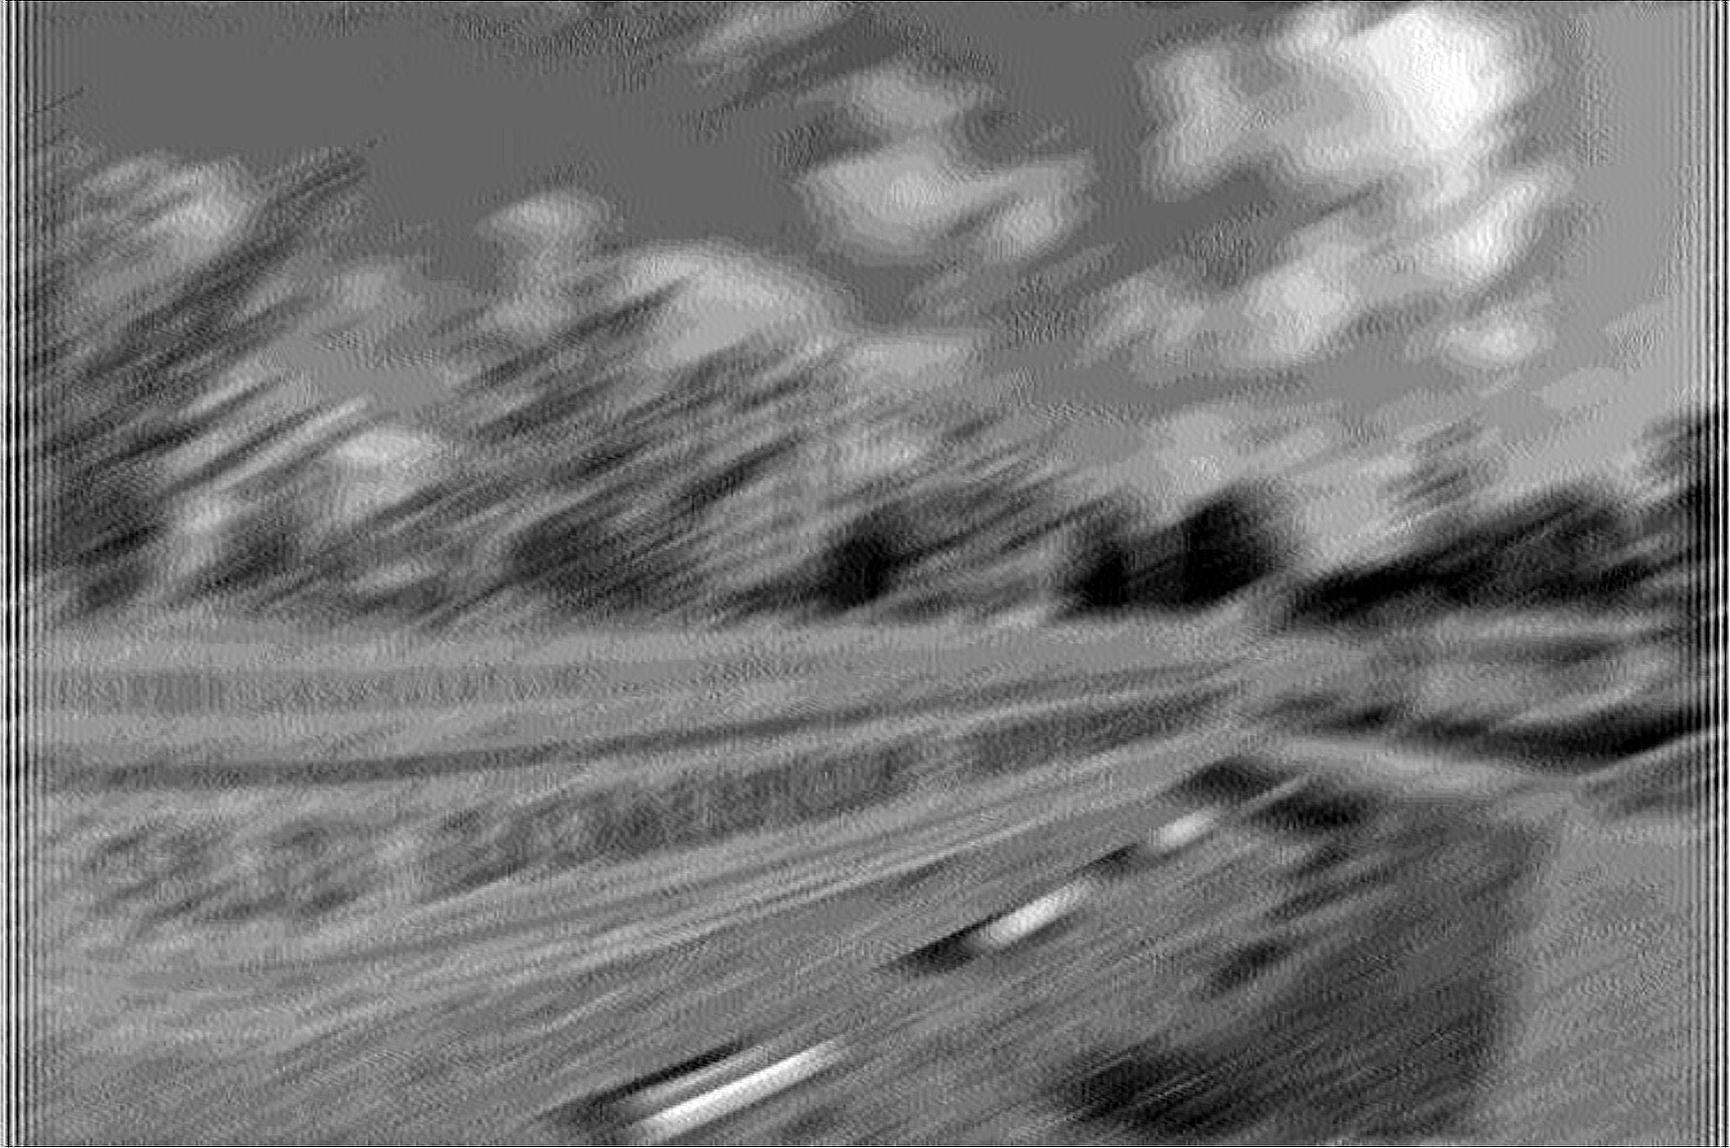
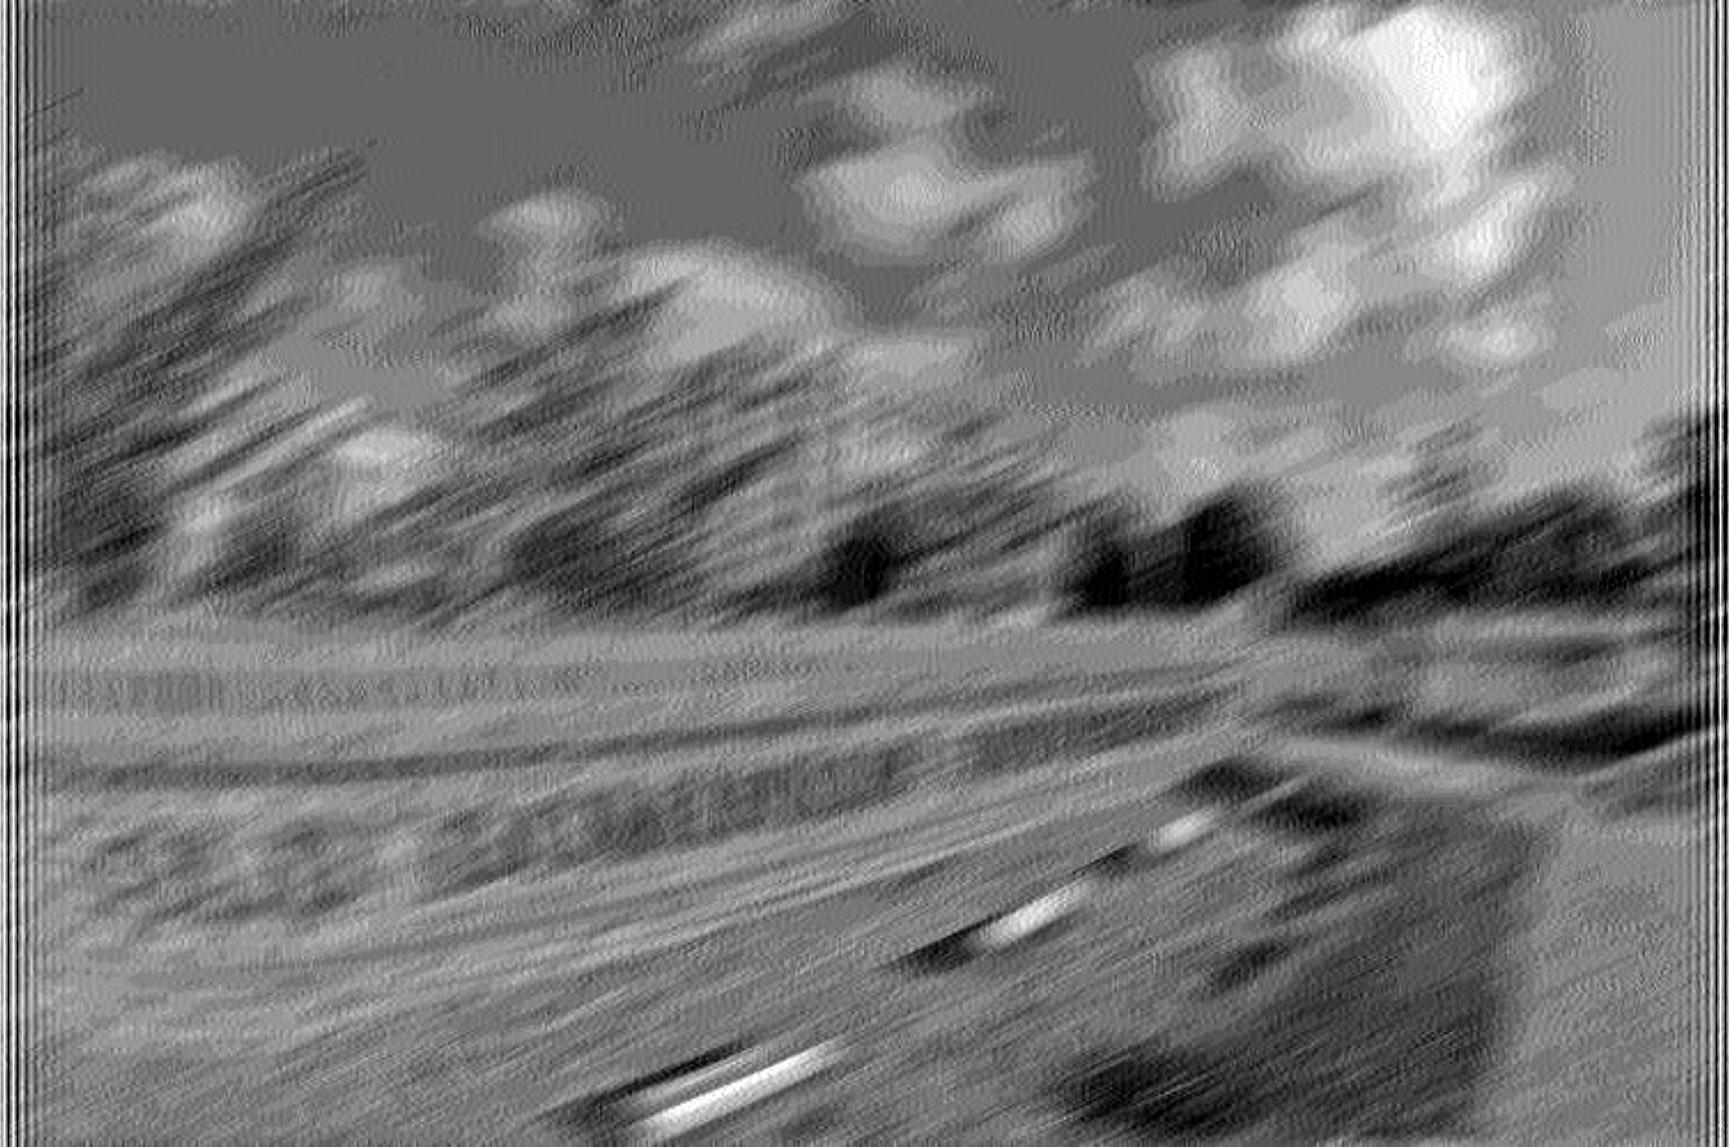
added weiner

Changed region(s): [[0.4682, 0.9756, 0.4994, 1.0], [0.0, 0.9756, 0.0312, 1.0]]

diff --git a/image_restoration/test_examples.m b/image_restoration/test_examples.m
@@ -1,37 +1,40 @@
-fs = 0.08;   %FOR RED CHANNEL
-W = 256;
-H = 128; 
-
-img1 = zeros(128, 256);
-for m = 0 : H-1 
-    for n = 0 : W-1
-        img1(m + 1, n + 1) = sin(2*pi*fs*m);
-    end
-end
-
-fs = 0.16;    %FOR Green CHANNEL
-
-img2 = zeros(128, 256);
-for m = 0 : H-1 
-    for n = 0 : W-1
-        img2(m + 1, n + 1) = sin(2*pi*fs*m);
-    end
-end
-
-fs = 0.01;    %FOR Blue CHANNEL
-
-img3 = zeros(128, 256);
-for m = 0 : H-1 
-    for n = 0 : W-1
-        img3(m + 1, n + 1) = sin(2*pi*fs*m);
-    end
-end
-
-Color=zeros(128,256,3);
-Color(:,:,1)=img1;
-Color(:,:,2)=img2;
-Color(:,:,3)=img3;
-imshow(Color,[]);
+I = imread('../resources/ball.jpeg');
+imGray = rgb2gray(I);
+imwrite(imGray, './results/ball_grayscale.jpg');
+% fs = 0.08;   %FOR RED CHANNEL
+% W = 256;
+% H = 128; 
+% 
+% img1 = zeros(128, 256);
+% for m = 0 : H-1 
+%     for n = 0 : W-1
+%         img1(m + 1, n + 1) = sin(2*pi*fs*m);
+%     end
+% end
+% 
+% fs = 0.16;    %FOR Green CHANNEL
+% 
+% img2 = zeros(128, 256);
+% for m = 0 : H-1 
+%     for n = 0 : W-1
+%         img2(m + 1, n + 1) = sin(2*pi*fs*m);
+%     end
+% end
+% 
+% fs = 0.01;    %FOR Blue CHANNEL
+% 
+% img3 = zeros(128, 256);
+% for m = 0 : H-1 
+%     for n = 0 : W-1
+%         img3(m + 1, n + 1) = sin(2*pi*fs*m);
+%     end
+% end
+% 
+% Color=zeros(128,256,3);
+% Color(:,:,1)=img1;
+% Color(:,:,2)=img2;
+% Color(:,:,3)=img3;
+% imshow(Color,[]);
 
 %     img = zeros(rows, cols);  %demo image
 %     numperiods = 8;

diff --git a/image_restoration/script_deblur.m b/image_restoration/script_deblur.m
@@ -3,8 +3,8 @@ I = rgb2gray(I);
 wnr = applyDeblur(I, 9, 0, 0);
 imwrite(wnr, './results/wiener_no_noise.jpg');
 
-n = sum(I(:));
-wnr = applyDeblur(I, 9, n, 10);
+%n = sum(I(:));
+wnr = applyDeblur(I, 9, 0, 10);
 imwrite(wnr, './results/wiener_noise.jpg');
 
 PSF = fspecial('motion', 9, 0);
